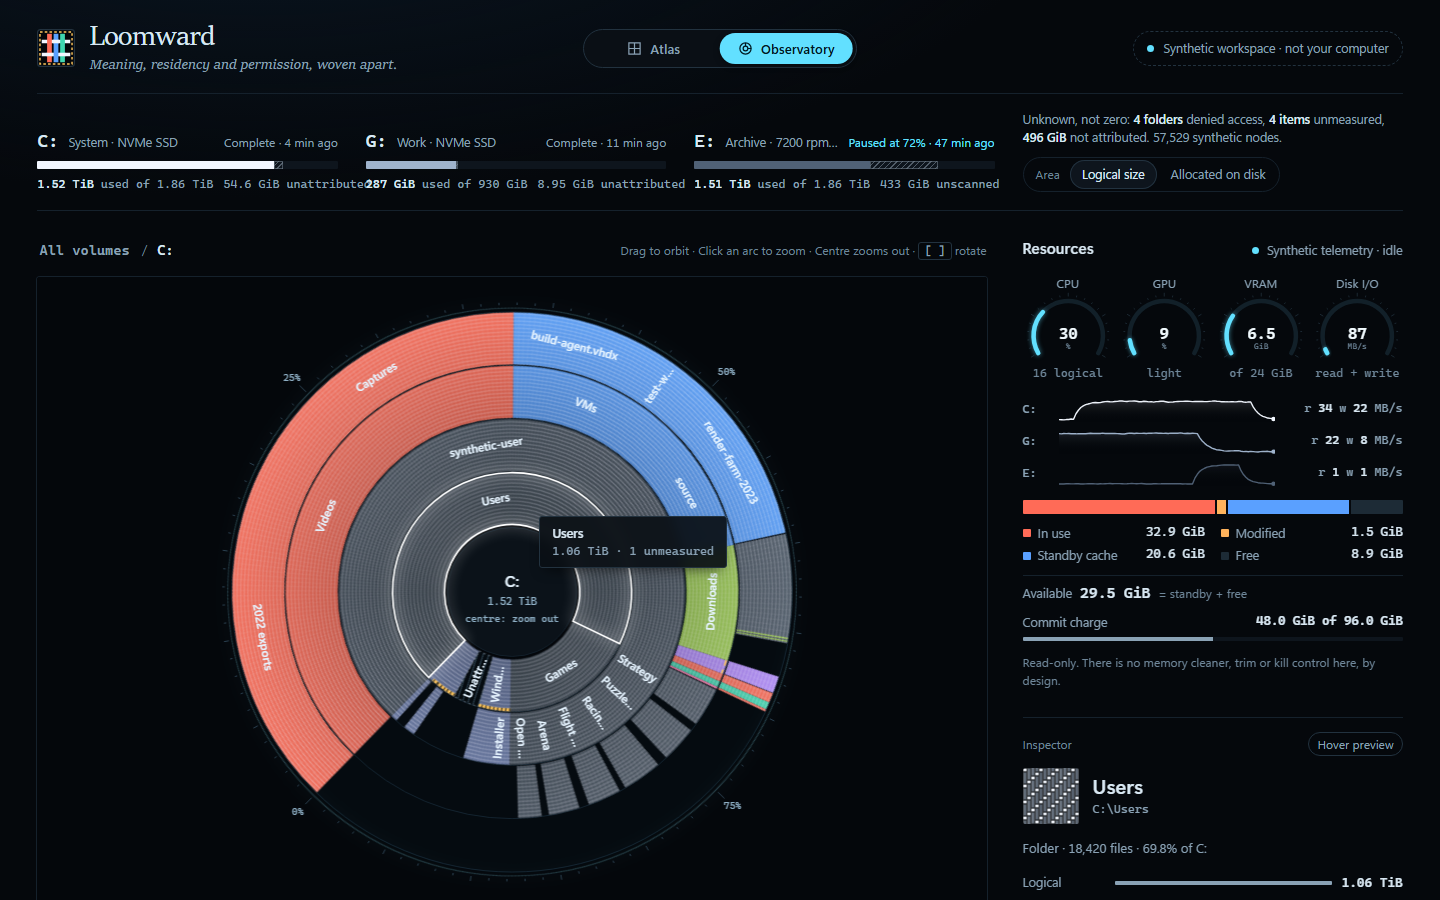
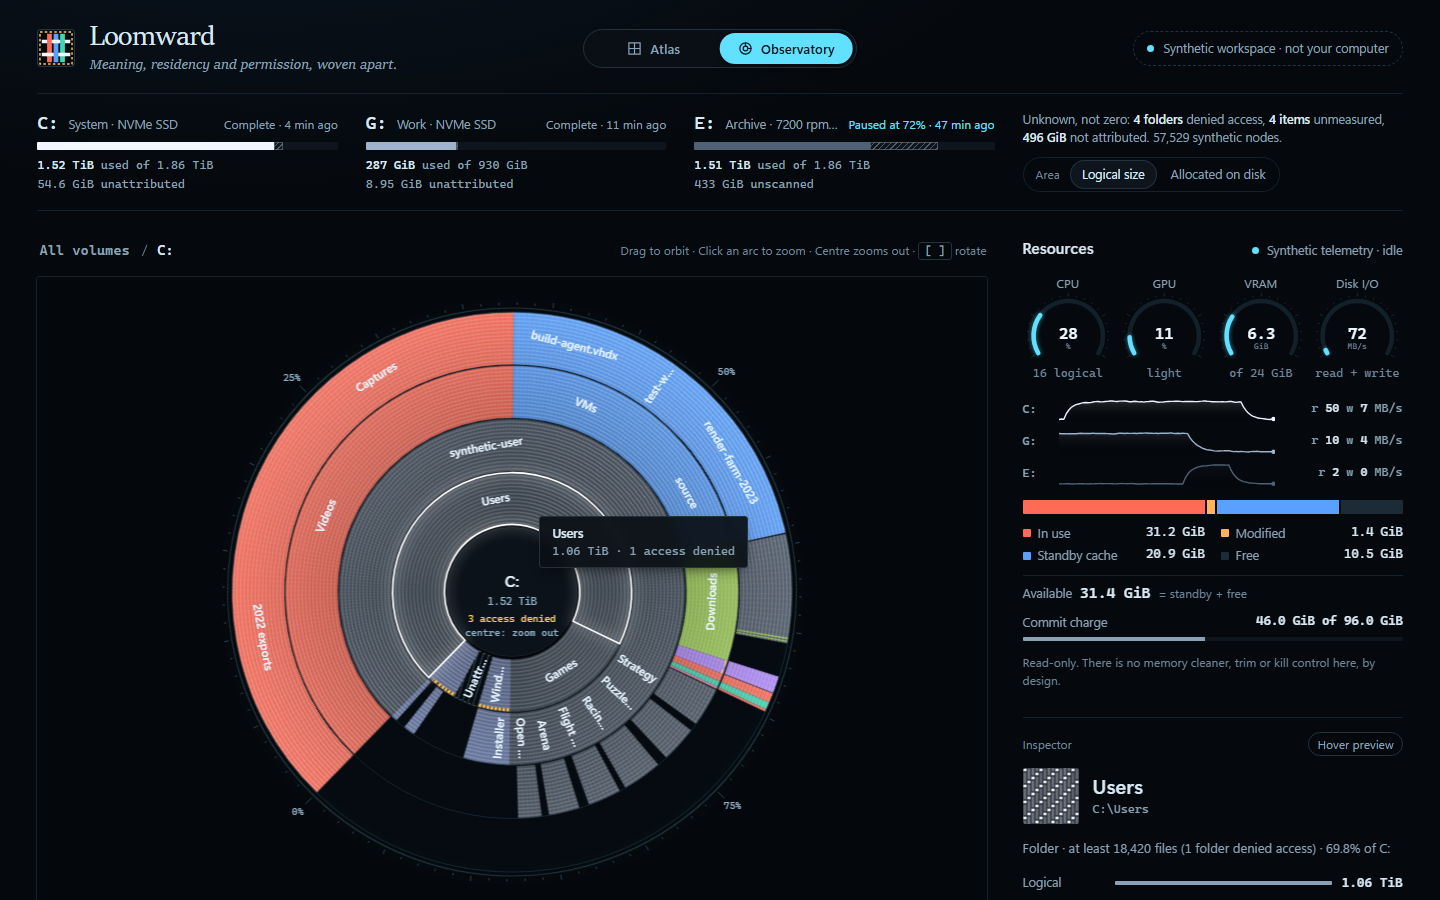
test(prototype): probes for denied folders, reveal, focus, basis keys and hostile names

diff --git a/app/prototype/check.py b/app/prototype/check.py
@@ -160,6 +160,87 @@ def run() -> int:
                 if bench["p95"] > 16.7:
                     failures.append(f"treemap p95 frame {bench['p95']:.2f} ms exceeds 16.7 ms")
 
+            # --- review fixes: denied folders, reveal target, focus restoration, basis keys ---
+            if label == "1440":
+                denied = page.evaluate("""() => {
+                  const lw = window.loomward, all = [...lw.ws.byId.values()];
+                  const d = all.find((n) => n.denied);
+                  lw.inspect(d); const own = document.getElementById('inspector').innerText;
+                  lw.inspect(d.parent); const parent = document.getElementById('inspector').innerText;
+                  lw.inspect(lw.ws.root);
+                  return { own, parent };
+                }""")
+                if "access denied" not in denied["own"] or " 0 files" in denied["own"]:
+                    failures.append(f"denied folder not shown as denied: {denied['own'][:200]!r}")
+                if "at least" not in denied["parent"] or "denied access" not in denied["parent"]:
+                    failures.append(f"parent of a denied folder claims an exact count: {denied['parent'][:200]!r}")
+                row = page.locator("#review-list li", has_text="render-farm-2023")
+                row.get_by_role("button", name="Show in map").click()
+                wait_idle(page)
+                if crumbs(page)[-1].strip() != "render-farm-2023":
+                    failures.append(f"Show in map on a folder landed on {crumbs(page)[-1]!r}")
+                page.locator("#crumbs button").first.click()
+                wait_idle(page)
+                accept = page.locator('#review-list [data-key="rq-0-accept"]')
+                accept.focus()
+                page.keyboard.press("Enter")
+                if page.evaluate("document.activeElement?.dataset.key") != "rq-0-undo":
+                    failures.append("focus lost after accepting a label")
+                page.keyboard.press("Enter")
+                if page.evaluate("document.activeElement?.closest('[data-row]')?.dataset.row") != "0":
+                    failures.append("focus lost after undo")
+                page.locator('[data-key="tier-toggle"]').focus()
+                page.keyboard.press("Enter")
+                if page.evaluate("document.activeElement?.dataset.key") != "tier-toggle":
+                    failures.append("focus lost after toggling the tier comparison")
+                page.keyboard.press("Enter")
+                page.locator('.basis [aria-checked="true"]').focus()
+                page.keyboard.press("ArrowRight")
+                if page.locator('.basis [aria-checked="true"]').get_attribute("data-basis") != "alloc":
+                    failures.append("basis radiogroup ignores arrow keys")
+                page.keyboard.press("ArrowLeft")
+
+                # --- hostile names render as text: no new elements, no errors ---
+                hostile = "<img src=x onerror=alert(1)>"
+                rtl = "\u202Eexe.gpj" + "\u05E9\u05DC\u05D5\u05DD\u200B\u200D" * 24 + "\u200F"
+                imgs_before = page.evaluate("document.querySelectorAll('img, script:not([src]), iframe').length")
+                page.evaluate("""([hostile, rtl]) => {
+                  const lw = window.loomward, C = lw.ws.root.children[0];
+                  const mk = (name, parent, size, dir) => ({ id: 'probe-' + name.length, name, kind: dir ? 'dir' : 'file', depth: parent.depth + 1, parent, size, alloc: size,
+                    meaning: 'downloads', residency: 'c', permission: 'none', children: dir ? [] : null, collections: [hostile], unknowns: [hostile], unmeasured: 0, deniedBelow: 0, files: dir ? 2 : 1 });
+                  const d = mk(hostile, C, 3e9, true);
+                  d.children.push(mk(hostile + '.txt', d, 2e9), mk(rtl, d, 1e9));
+                  C.children.push(d); window.__probe = d;
+                  lw.orbit.setRoot(lw.ws.root);
+                  lw.atlas.focus(d, { animate: false });
+                }""", [hostile, rtl])
+                wait_idle(page, 300)
+                page.locator("#atlas-canvas").focus()
+                page.keyboard.press("Home")
+                name1 = page.locator("#insp-name").text_content()
+                page.keyboard.press("ArrowRight")
+                name2 = page.locator("#insp-name").text_content()
+                cb = page.locator("#atlas-canvas").bounding_box()
+                page.mouse.move(cb["x"] + cb["width"] * 0.3, cb["y"] + cb["height"] * 0.5)
+                wait_idle(page, 200)
+                tip_text = page.locator("#tip").text_content()
+                last_crumb = crumbs(page)[-1].strip()
+                page.evaluate("() => { window.loomward.setMode('observatory', { transition: false }); window.loomward.orbit.focus(window.__probe); }")
+                wait_idle(page, 900)
+                page.evaluate("""() => {
+                  const lw = window.loomward, C = lw.ws.root.children[0];
+                  lw.setMode('atlas', { transition: false });
+                  C.children.splice(C.children.indexOf(window.__probe), 1); delete window.__probe;
+                  lw.orbit.setRoot(lw.ws.root); lw.atlas.focus(lw.ws.root, { animate: false });
+                }""")
+                wait_idle(page, 300)
+                imgs_after = page.evaluate("document.querySelectorAll('img, script:not([src]), iframe').length")
+                if imgs_after != imgs_before:
+                    failures.append(f"hostile name created elements: {imgs_before} -> {imgs_after}")
+                if name1 != hostile + ".txt" or name2 != rtl or hostile not in tip_text or last_crumb != hostile:
+                    failures.append(f"hostile names not rendered verbatim as text: {name1!r} {name2!r} {tip_text!r} {last_crumb!r}")
+                results["hostile_name_probe"] = "passed" if imgs_after == imgs_before else "failed"
+
             # --- observatory ---
             page.locator('.mode-switch [data-mode="observatory"]').click()
             wait_idle(page, 1200)
